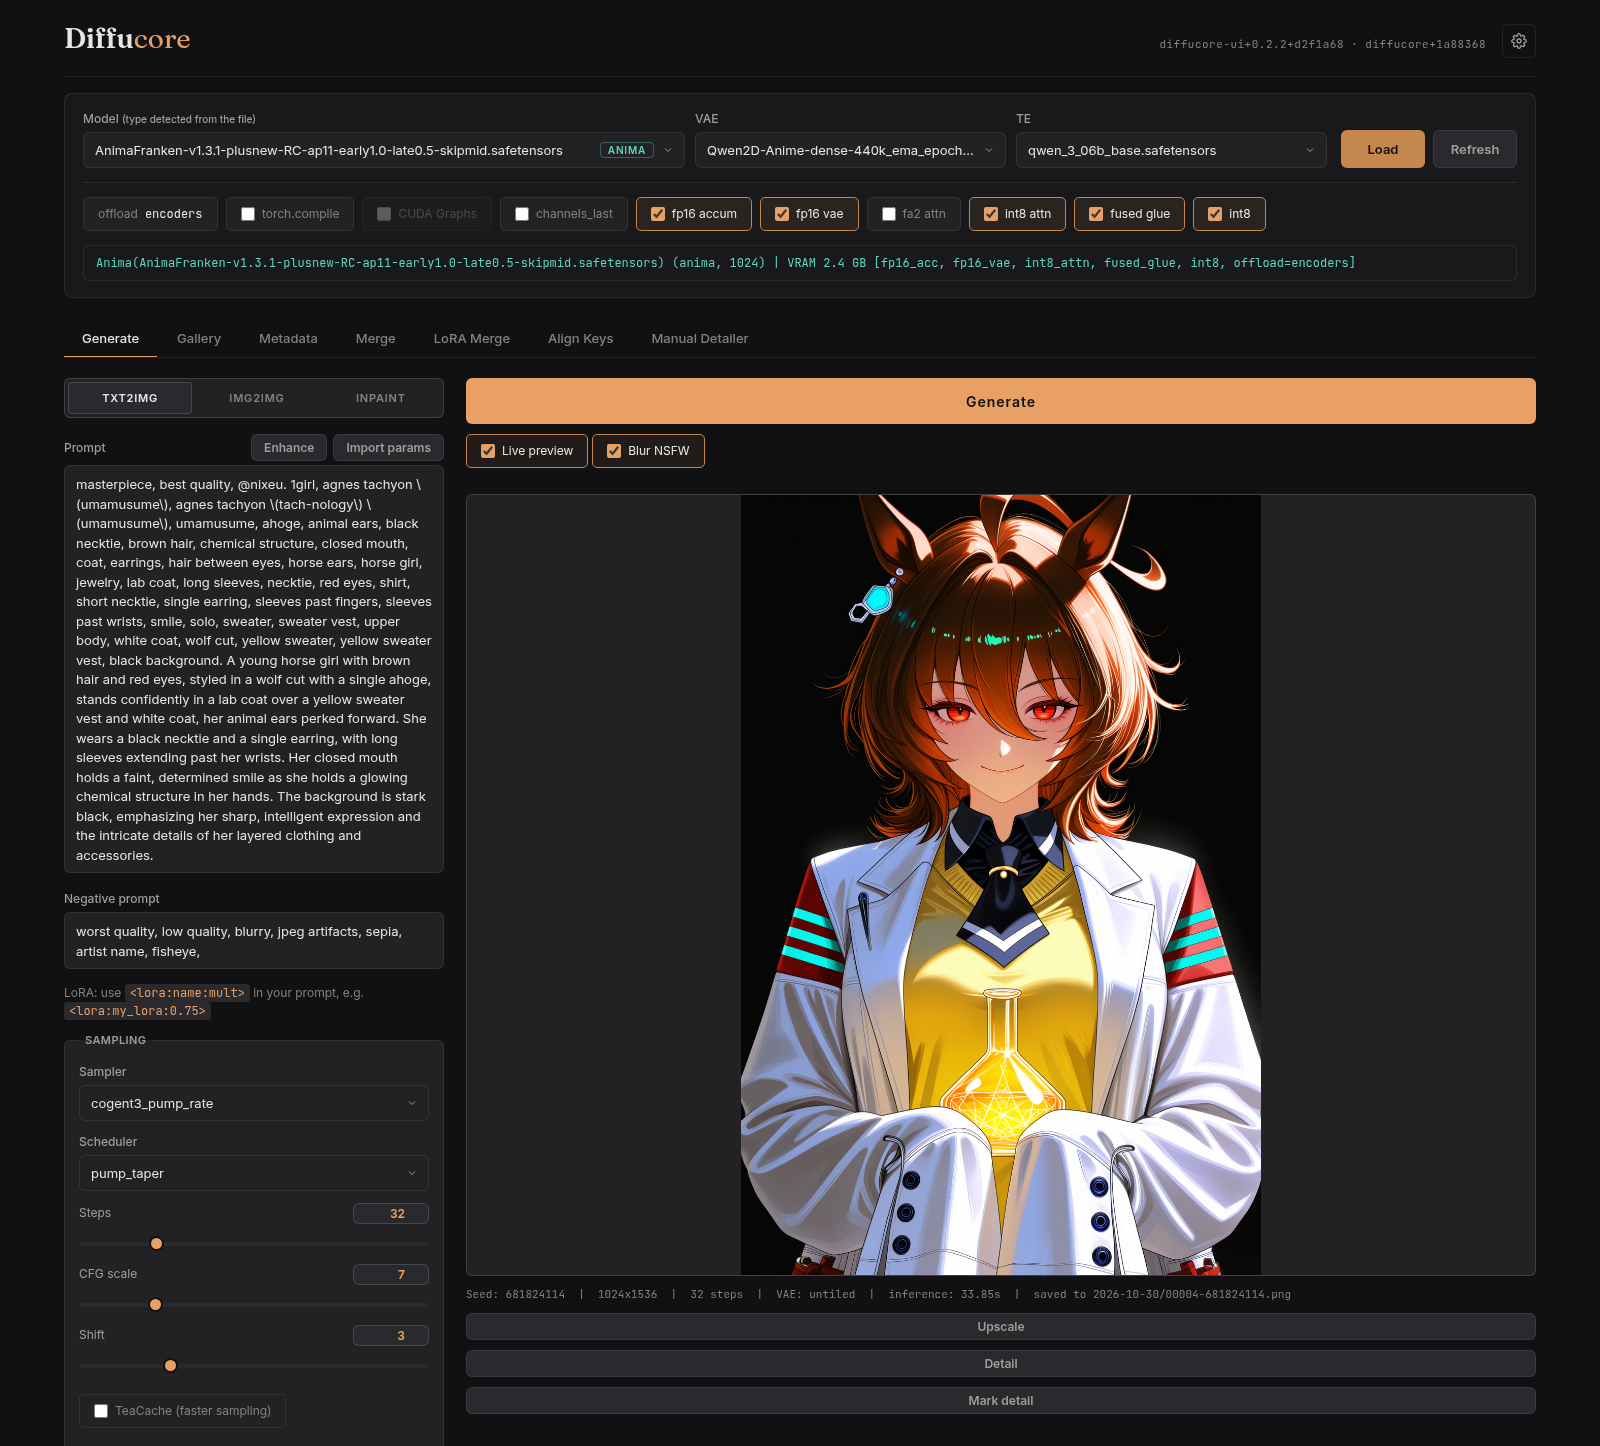
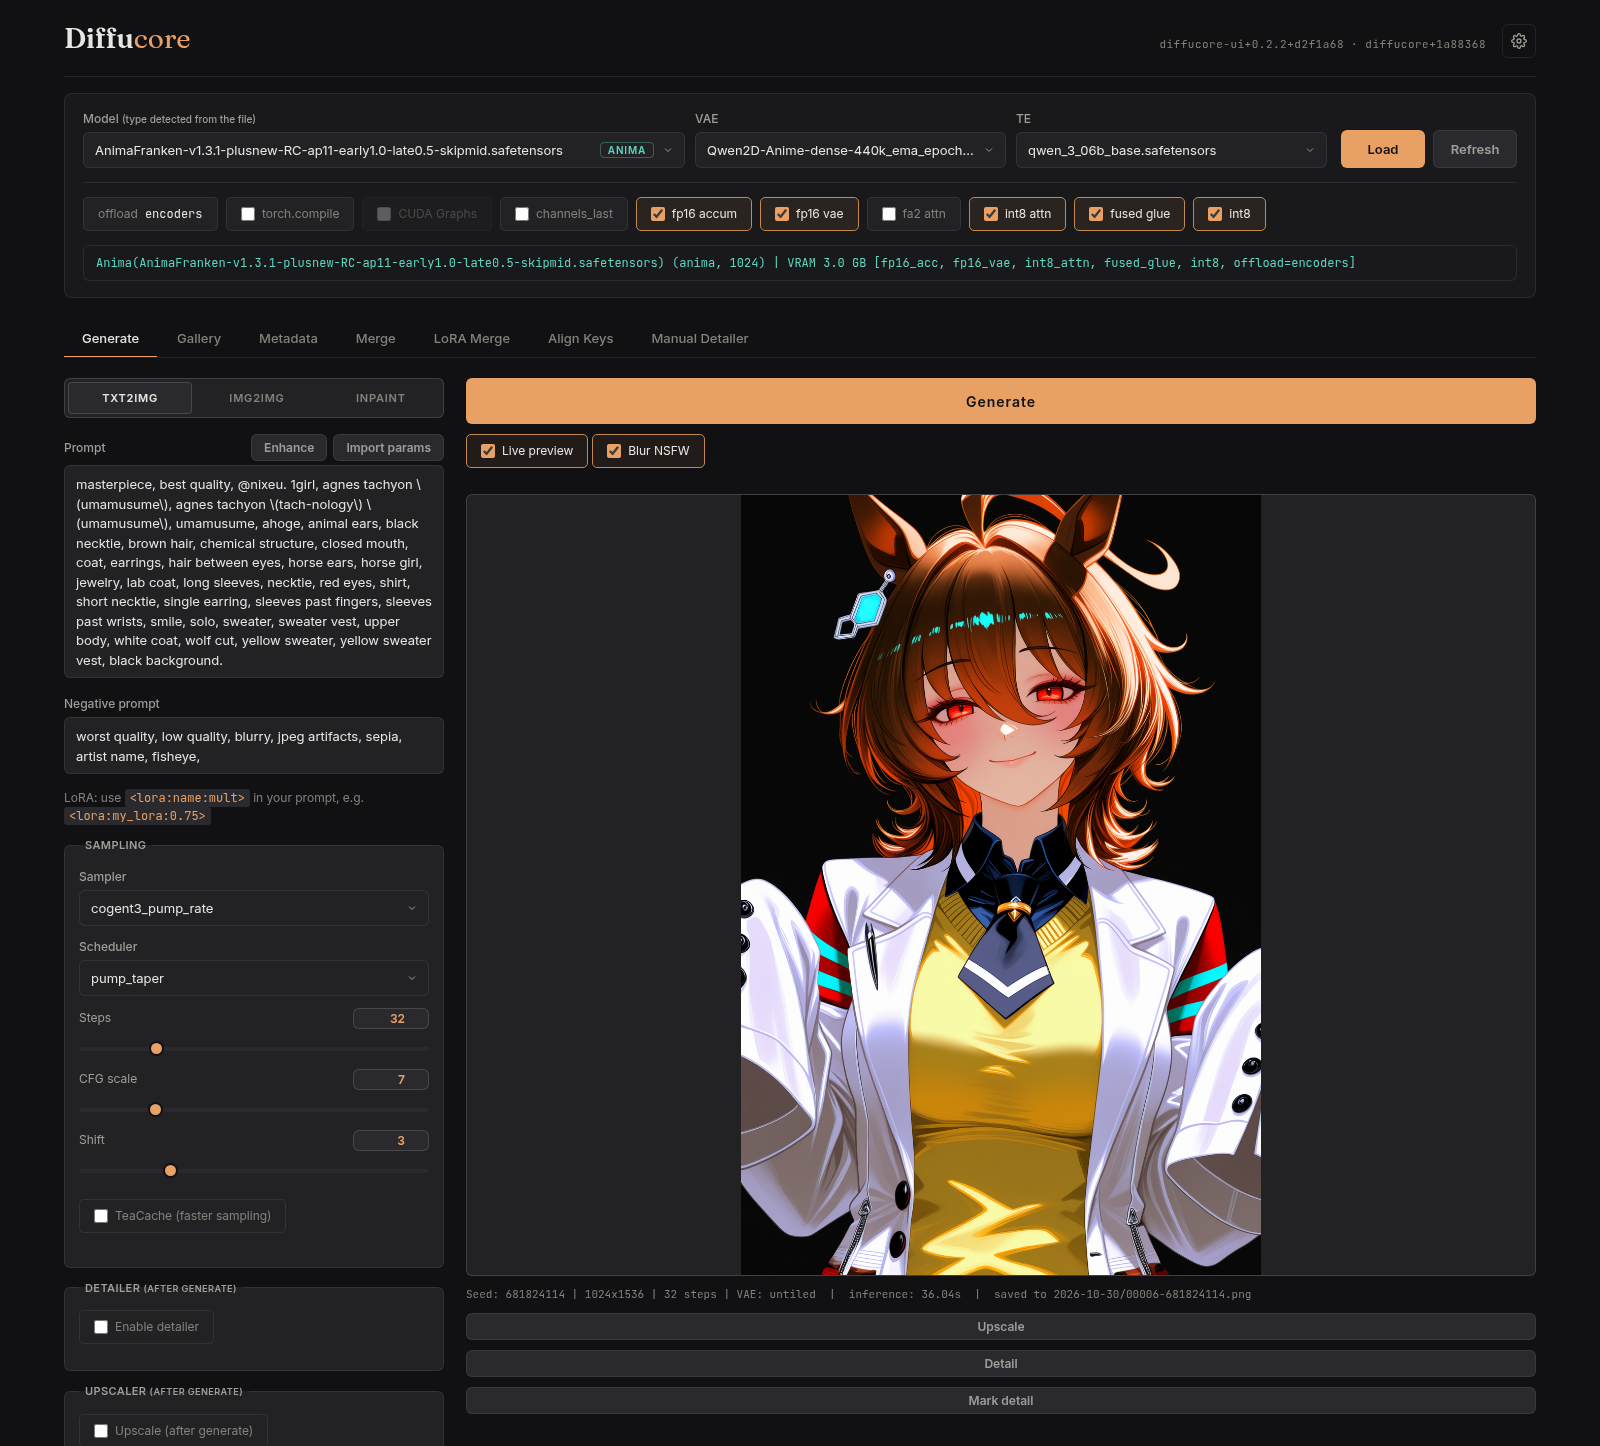
docs(readme): retake the screenshot with a tags-only prompt

diff --git a/README.md b/README.md
@@ -8,7 +8,7 @@
 
 ![The Generate workspace: model bar with per-load speed flags on top, prompt and sampler controls on the left, the result on the right](docs/images/generate.png)
 
-<sub>Anima on an RTX 2060 12 GB: 1024×1536, 32 steps, 33.9 s with the fp16, int8
+<sub>Anima on an RTX 2060 12 GB: 1024×1536, 32 steps, 36.0 s with the fp16, int8
 and fused-glue speed flags on. The tabs after Metadata come from optional
 extensions.</sub>
 
